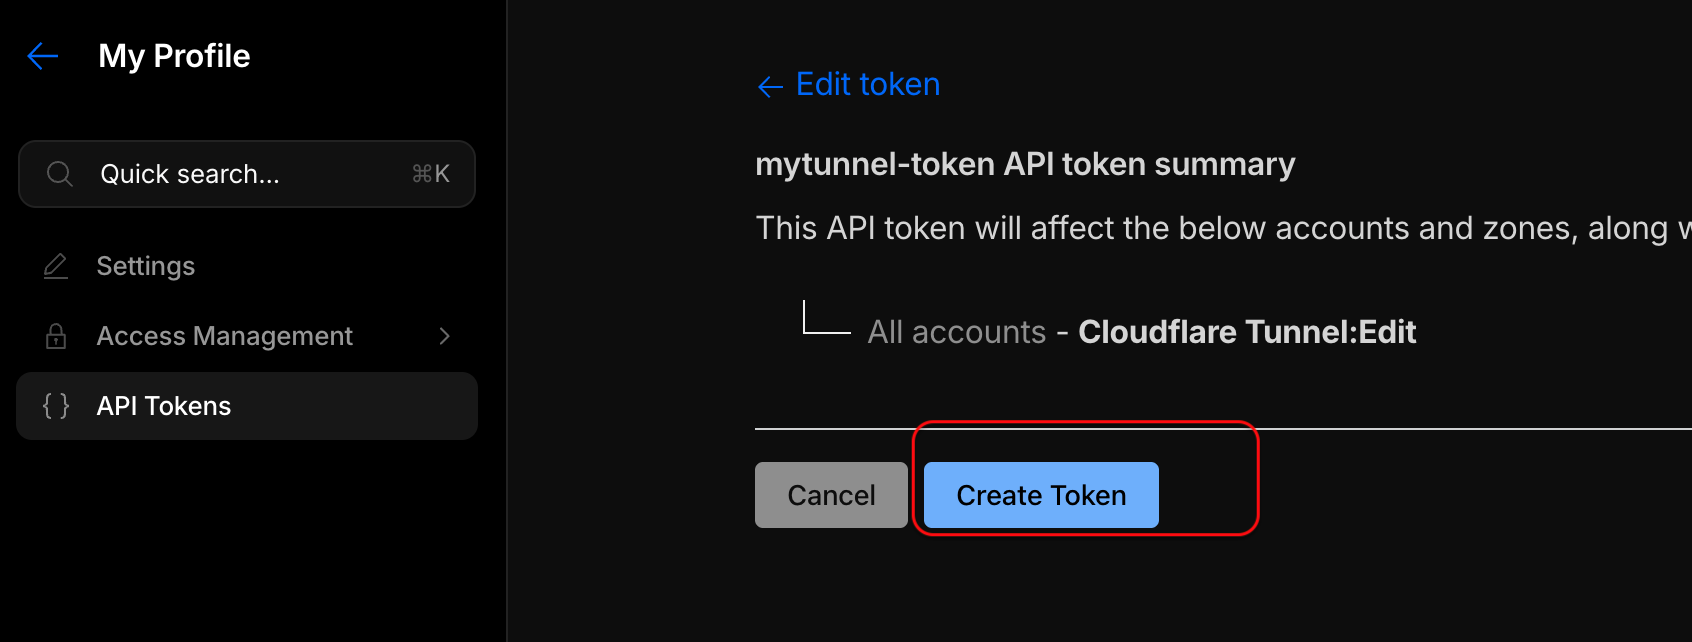
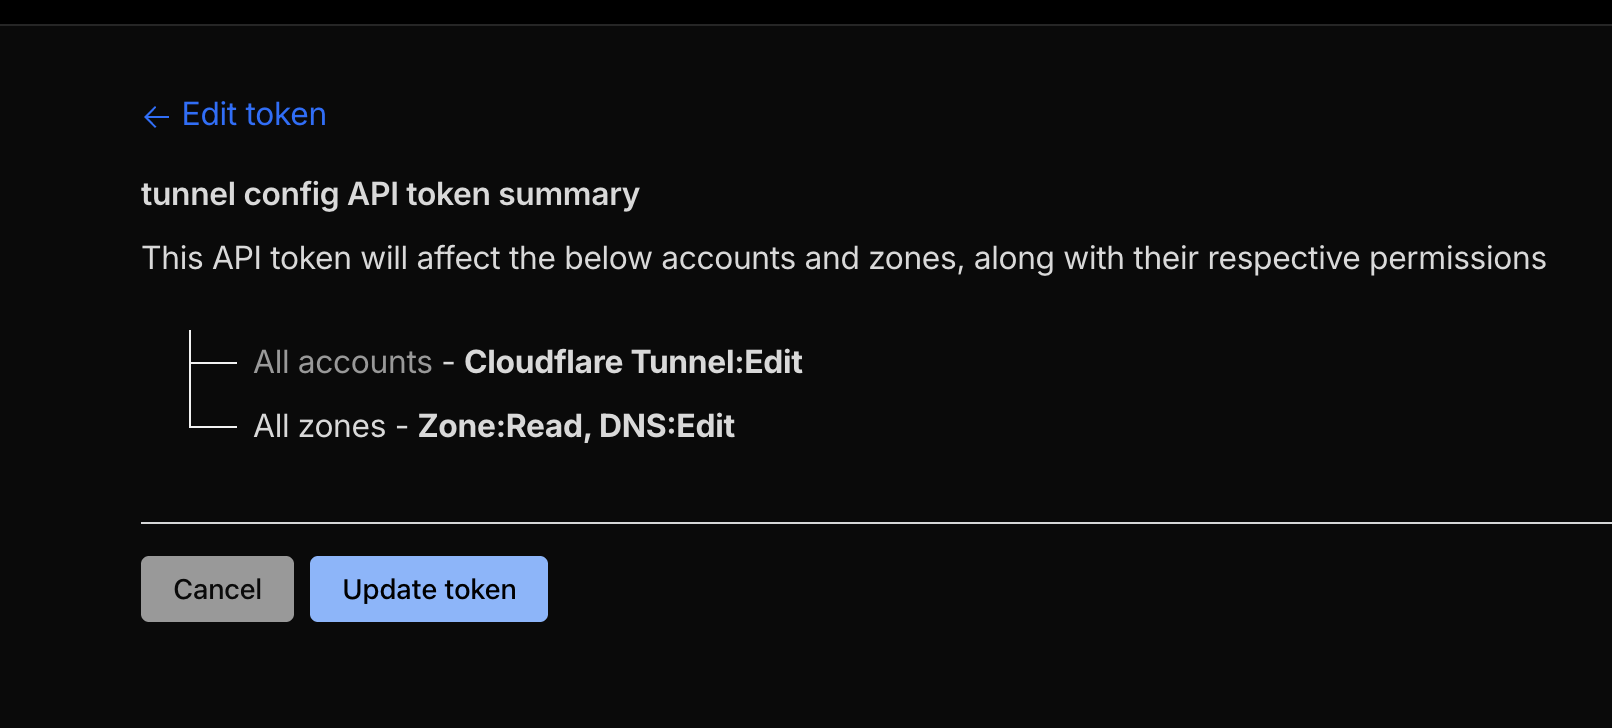
Update screenshots and README for 3-permission token setup
Screenshots now show Zone:Zone:Read + Zone:DNS:Edit rows.
README updated to list all three required permissions.

diff --git a/README.md b/README.md
@@ -38,11 +38,12 @@ On a fresh machine, run the install command from the Cloudflare dashboard and co
 
 ![Step 2 — Select Custom Token](cftun-step2.png)
 
-**Step 3** — Name the token (e.g. `mytunnel-token`) and add two permissions:
+**Step 3** — Name the token (e.g. `mytunnel-token`) and add three permissions:
 - **Account → Cloudflare Tunnel → Edit**
+- **Zone → Zone → Read**
 - **Zone → DNS → Edit**
 
-The DNS:Edit permission is required by `remove-route.sh` to look up and delete DNS CNAME records.
+Zone:Read is needed to look up the Zone ID. DNS:Edit is needed to list and delete DNS CNAME records.
 
 ![Step 3 — Configure token name and permissions](cftun-step3.png)
 